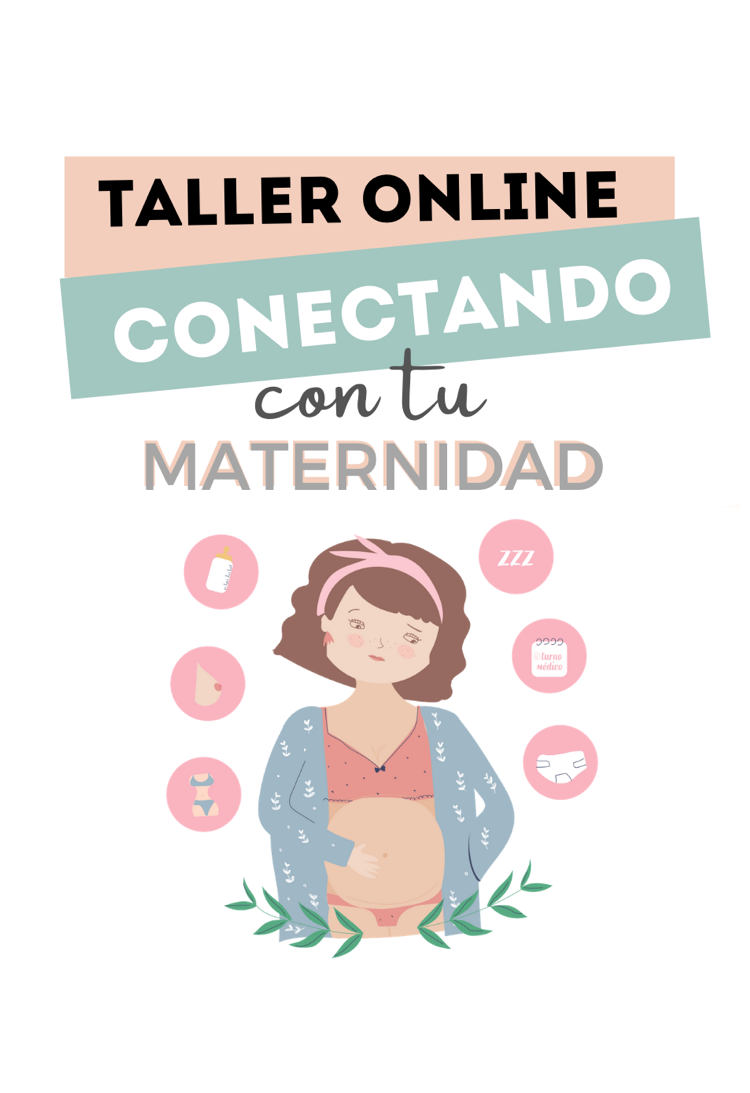
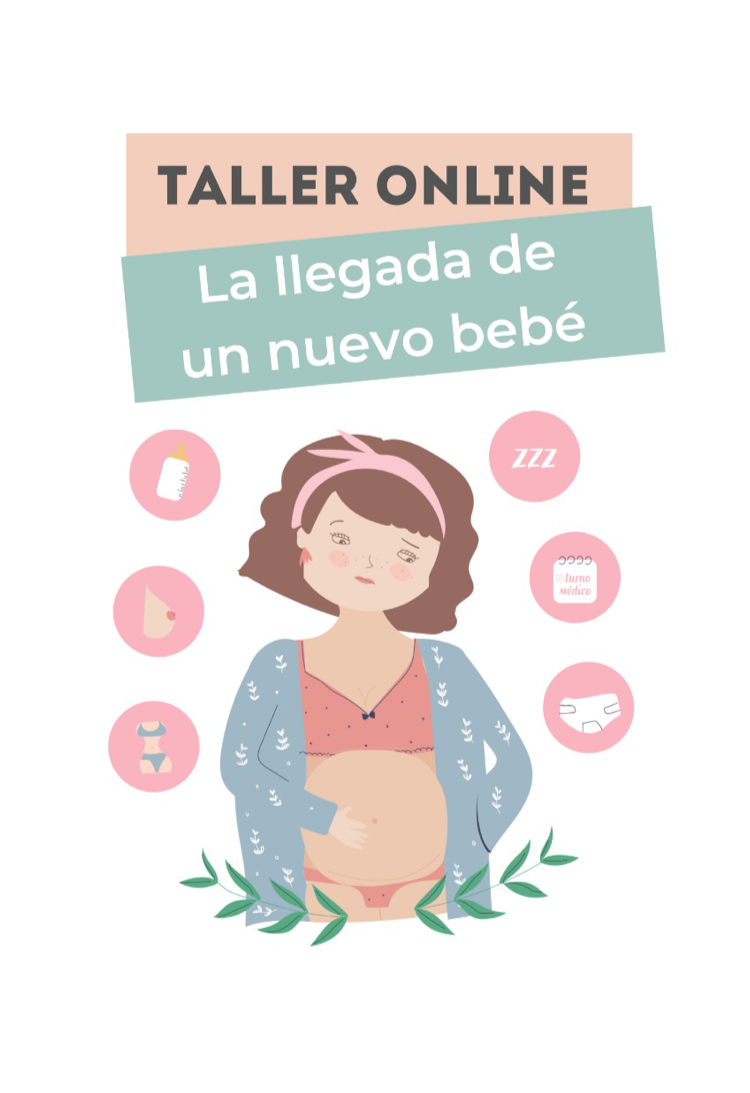
new curso

Changed region(s): [[0.0613, 0.1244, 0.9507, 0.871]]

diff --git a/talleres.html b/talleres.html
@@ -208,9 +208,9 @@
     <!-- Slider main container -->
     <div class="swiper-container">
         <!-- Additional required wrapper -->
-        <div class="swiper-wrapper">
+        <div class="swiper-wrapper taller">
             <!-- Slides -->
-            <div class="swiper-slide" onscroll="scrolling(this)">
+            <div class="swiper-slide taller" onscroll="scrolling(this)">
               <div class="left">
                 <img src="img/talleres-1.png" data-swiper-parallax-y="100" data-swiper-parallax-opacity="1" data-swiper-parallax-duration="600"/>
               </div>
@@ -221,19 +221,30 @@
                 </div>
                 <div class="t2">
                   <div data-swiper-parallax-duration="900" data-swiper-parallax="-600">
-                    <br/> <strong>Primer encuentro:</strong> Embarazo. Vamos a hablar de los cambios psicoemocionales y corporales. Qué pasa en cada trimestre y cuáles son los principales desafíos. Maternidad y maternaje / Instinto vs construcción. ¿Se nace madre?
-                    <br/><br/>Cómo prepáranos para el parto, qué esperar de ese momento, la importancia del equipo médico.
+                    <br/> 
+                    La llegada de un nuevo bebé es un acontecimiento muy importante en la 
+                    vida de todas las personas. No sólo para la embarazada sino para todas 
+                    las personas que están a su alrededor. La identidad de madre aparece, 
+                    pero también se inauguran nuevos roles: abuela, abuelo, tíos, etc.
                     <br/><br/>
-                    <strong>Segundo encuentro:</strong> Puerperio. El encuentro con el bebé. Bebé imaginario vs bebé real.
-                    La importancia del vínculo temprano mamá-bebe. La construcción de la identidad materna.
-                    La mamá que queremos ser vs la mamá que somos. La vuelta a casa. El rol del padre, qué
-                    lugar le damos a los demás familiares. Lactancia. Puerperio, qué es, cómo afrontarlo,
-                    señales de alarma.
+                    Contar con información sobre lo que va sucediendo a lo largo del embarazo 
+                    te dará las herramientas para poder atravesar este momento de la mejor 
+                    manera posible y/o para acompañar a esa persona que está gestando
+                    <br/><br/>
+                    En este taller vas a encontrar temas de gran interés, temáticas 
+                    exclusivas que no suelen hablarse como son: la sexualidad durante el 
+                    embarazo y el puerperio, señales de alarma y conocimientos básicos sobre 
+                    la depresión postparto, cómo recibir y enfrentarse a los consejos 
+                    familiares... También haré un recorrido por los tres trimestres del 
+                    embarazo, el momento del parto, la lactancia, el rol de la pareja, entre
+                    otros.
+                    <br/><br/>
+                    Espero que disfrutes de participar del taller tanto como yo disfruté de su preparación.
                   </div>
                   <div>
-                    <br/><strong>CONSULTA POR NUEVAS FECHAS</strong><br/><br/>
-                    <a class="link" href="mailto:lic.ludmilaonorati@gmail.com">lic.ludmilaonorati@gmail.com</a><br/>
-                    📞 <a class="link" href="tel:+5492914463132">(+54)291-446-3132</a><br/>
+                    <a class="button" target="_blank" href="https://licludmilaonorati.tiendup.com/curso/la-llegada-de-un-nuevo-bebe" data-swiper-parallax-duration="1000" data-swiper-parallax="-700">
+                      ¡Inscribite acá!
+                    </a>
                   </div>
                 </div>
               </div>
@@ -241,7 +252,7 @@
 
             <!-- -->
 
-            <div class="swiper-slide" onscroll="scrolling(this)">
+            <div class="swiper-slide taller" onscroll="scrolling(this)">
               <div class="left">
                 <!-- <img src="img/2.png" data-swiper-parallax-y="100" data-swiper-parallax-opacity="1" data-swiper-parallax-duration="600"/> -->
                 <img src="img/talleres-2.png" data-swiper-parallax-y="-100" data-swiper-parallax-duration="850"/>
@@ -286,9 +297,6 @@
                     <a class="button" target="_blank" href="https://licludmilaonorati.tiendup.com/curso/emociones-limites-y-berrinches" data-swiper-parallax-duration="1000" data-swiper-parallax="-700">
                       ¡Inscribite acá!
                     </a>
-                    <br/><br/>
-                    <a class="link" href="mailto:lic.ludmilaonorati@gmail.com">lic.ludmilaonorati@gmail.com</a><br/>
-                    📞 <a class="link" href="tel:+5492914463132">(+54)291-446-3132</a><br/>
                   </div>
                 </div>
               </div>

diff --git a/theme.css b/theme.css
@@ -325,6 +325,10 @@ body .swiper-pagination-bullet {
     /* max-width: 500px; */
   }
 
+  .swiper-slide.taller {
+    align-items: flex-start;
+  }
+
   .swiper-slide:nth-child(2n) {
     background-color: #fff;
     flex-direction: row;
@@ -337,6 +341,8 @@ body .swiper-pagination-bullet {
   .t1 {
     position: relative;
     margin-top: 0;
+    display: flex;
+    gap: 14px;
   }
 
   .parallax-girl {
